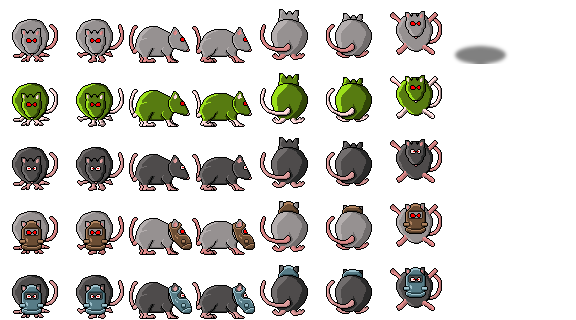
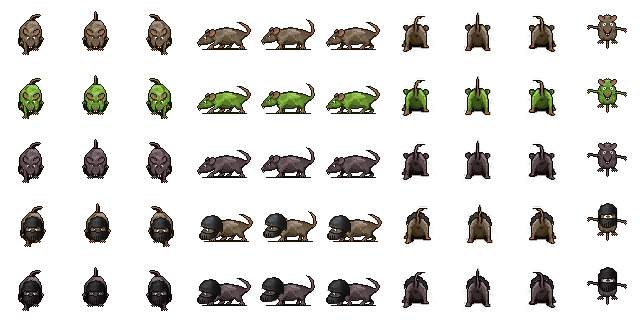
ADD New art for rats

diff --git a/src/BlackRatEntity.cpp b/src/BlackRatEntity.cpp
@@ -13,12 +13,12 @@ BlackRatEntity::BlackRatEntity(float x, float y, ratBlackTypeEnum ratType)
   targetTile(0, 0)
 {
   this->ratType = ratType;
-  imagesProLine = 8;
+  imagesProLine = 10;
 
   if (ratType == RatBlackTypeNormal)
   {
-    frame = 16;
-    dyingFrame = 22;
+    frame = 21;
+    dyingFrame = 29;
     deathFrame = FRAME_CORPSE_BLACK_RAT;
     enemyType = EnemyTypeRatBlack;
     hp = BLACK_RAT_HP;
@@ -26,8 +26,8 @@ BlackRatEntity::BlackRatEntity(float x, float y, ratBlackTypeEnum ratType)
   }
   else //(ratType == RatBlackTypeHelmet)
   {
-    frame = 32;
-    dyingFrame = 38;
+    frame = 41;
+    dyingFrame = 49;
     deathFrame = FRAME_CORPSE_BLACK_RAT_HELMET;
     enemyType = EnemyTypeRatBlackHelmet;
     hp = BLACK_RAT_HP_HELMET;
@@ -38,10 +38,11 @@ BlackRatEntity::BlackRatEntity(float x, float y, ratBlackTypeEnum ratType)
 
   type = ENTITY_ENNEMY;
   bloodColor = BloodRed;
-  shadowFrame = 7;
+  shadowFrame = -1;
   agonizingSound = SOUND_RAT_DYING;
 
   currentDirection = 0;
+  sprite.setOrigin(32.0f, 38.0f);
 
   findNextGoal();
 }
@@ -56,24 +57,25 @@ void BlackRatEntity::animate(float delay)
     else if (currentDirection == 2 && y > (targetTile.y * TILE_HEIGHT + TILE_HEIGHT / 2 + OFFSET_Y - 5) ) findNextGoal();
     else if (currentDirection == 8 && y < (targetTile.y * TILE_HEIGHT + TILE_HEIGHT / 2 + OFFSET_Y - 5) ) findNextGoal();
 
-    frame = 16 + ((int)(age * 5.0f)) % 2;
-    if (facingDirection == 4 || facingDirection == 6) frame += 2;
-    isMirroring = (facingDirection == 4 );
-    if (facingDirection == 8) frame += 4;
-
-    if (ratType == RatBlackTypeHelmet)
-      frame += 16;
+    frame = ((int)(age * 5.0f)) % 4;
+    if (frame == 3) frame = 1;
+    if (facingDirection == 4 || facingDirection == 6) frame += 3;
+    isMirroring = (facingDirection == 6 );
+    if (facingDirection == 8) frame += 6;
+    if (ratType == RatBlackTypeHelmet) frame += 40;
+    else frame += 20;
   }
 
   EnemyEntity::animate(delay);
+  z = y + 17;
 }
 
 void BlackRatEntity::calculateBB()
 {
-    boundingBox.left = (int)x - width / 2 + RAT_BB_LEFT;
-    boundingBox.width = width - RAT_BB_WIDTH_DIFF;
-    boundingBox.top = (int)y - height / 2 + RAT_BB_TOP;
-    boundingBox.height =  height - RAT_BB_HEIGHT_DIFF;
+  boundingBox.left = (int)x - width / 2 + RAT_BB_LEFT;
+  boundingBox.width = width - RAT_BB_WIDTH_DIFF;
+  boundingBox.top = (int)y - 13;
+  boundingBox.height =  31;
 }
 
 void BlackRatEntity::collideMapRight()

diff --git a/src/RatEntity.cpp b/src/RatEntity.cpp
@@ -11,13 +11,13 @@ RatEntity::RatEntity(float x, float y, ratTypeEnum ratType, bool invocated)
   : EnemyEntity (ImageManager::getInstance().getImage(IMAGE_RAT), x, y)
 {
   this->ratType = ratType;
-  imagesProLine = 8;
+  imagesProLine = 10;
   this->invocated = invocated;
 
   if (ratType == RatTypeNormal)
   {
-    frame = 0;
-    dyingFrame = 6;
+    frame = 1;
+    dyingFrame = 9;
     deathFrame = FRAME_CORPSE_RAT;
     if (invocated) enemyType = EnemyTypeRat_invocated;
     else enemyType = EnemyTypeRat;
@@ -26,8 +26,8 @@ RatEntity::RatEntity(float x, float y, ratTypeEnum ratType, bool invocated)
   }
   else //(ratType == RatTypeHelmet)
   {
-    frame = 24;
-    dyingFrame = 30;
+    frame = 31;
+    dyingFrame = 39;
     deathFrame = FRAME_CORPSE_RAT_HELMET;
     if (invocated) enemyType = EnemyTypeRatHelmet_invocated;
     else enemyType = EnemyTypeRatHelmet;
@@ -41,31 +41,34 @@ RatEntity::RatEntity(float x, float y, ratTypeEnum ratType, bool invocated)
 
   type = ENTITY_ENNEMY;
   bloodColor = BloodRed;
-  shadowFrame = 7;
+  shadowFrame = -1;
 
   agonizingSound = SOUND_RAT_DYING;
+  sprite.setOrigin(32.0f, 38.0f);
 }
 
 void RatEntity::animate(float delay)
 {
   if (age > 0.0f && !isAgonising)
   {
-    frame = ((int)(age * 5.0f)) % 2;
-    if (facingDirection == 4 || facingDirection == 6) frame += 2;
-    isMirroring = (facingDirection == 4 );
-    if (facingDirection == 8) frame += 4;
-    if (ratType == RatTypeHelmet) frame += 24;
+    frame = ((int)(age * 5.0f)) % 4;
+    if (frame == 3) frame = 1;
+    if (facingDirection == 4 || facingDirection == 6) frame += 3;
+    isMirroring = (facingDirection == 6 );
+    if (facingDirection == 8) frame += 6;
+    if (ratType == RatTypeHelmet) frame += 30;
   }
 
   EnemyEntity::animate(delay);
+  z = y + 17;
 }
 
 void RatEntity::calculateBB()
 {
   boundingBox.left = (int)x - width / 2 + RAT_BB_LEFT;
   boundingBox.width = width - RAT_BB_WIDTH_DIFF;
-  boundingBox.top = (int)y - height / 2 + RAT_BB_TOP;
-  boundingBox.height =  height - RAT_BB_HEIGHT_DIFF;
+  boundingBox.top = (int)y - 13;
+  boundingBox.height =  31;
 }
 
 void RatEntity::collideMapRight()

diff --git a/src/GreenRatEntity.cpp b/src/GreenRatEntity.cpp
@@ -10,7 +10,7 @@
 GreenRatEntity::GreenRatEntity(float x, float y)
   : EnemyEntity (ImageManager::getInstance().getImage(IMAGE_RAT), x, y)
 {
-  imagesProLine = 8;
+  imagesProLine = 10;
   creatureSpeed = GREEN_RAT_SPEED;
   velocity = Vector2D(creatureSpeed);
   computeFacingDirection();
@@ -20,14 +20,15 @@ GreenRatEntity::GreenRatEntity(float x, float y)
   type = ENTITY_ENNEMY_INVOCATED;
   enemyType = EnemyTypeRatGreen;
   bloodColor = BloodRed;
-  shadowFrame = 7;
-  dyingFrame = 14;
+  shadowFrame = -1;
+  dyingFrame = 19;
   deathFrame = FRAME_CORPSE_GREEN_RAT;
   agonizingSound = SOUND_RAT_DYING;
 
   timer = (rand() % 50) / 10.0f;
   age = -GREEN_RAT_FADE;
-  frame = 8;
+  frame = 11;
+  sprite.setOrigin(32.0f, 38.0f);
 }
 
 void GreenRatEntity::animate(float delay)
@@ -51,6 +52,13 @@ void GreenRatEntity::animate(float delay)
     if (facingDirection == 4 || facingDirection == 6) frame += 2;
     isMirroring = (facingDirection == 4 );
     if (facingDirection == 8) frame += 4;
+
+    frame = ((int)(age * 5.0f)) % 4;
+    if (frame == 3) frame = 1;
+    if (facingDirection == 4 || facingDirection == 6) frame += 3;
+    isMirroring = (facingDirection == 6 );
+    if (facingDirection == 8) frame += 6;
+    frame += 10;
   }
   else if (!isAgonising)
   {
@@ -68,14 +76,15 @@ void GreenRatEntity::animate(float delay)
   }
 
   EnemyEntity::animate(delay);
+  z = y + 17;
 }
 
 void GreenRatEntity::calculateBB()
 {
-    boundingBox.left = (int)x - width / 2 + RAT_BB_LEFT;
-    boundingBox.width = width - RAT_BB_WIDTH_DIFF;
-    boundingBox.top = (int)y - height / 2 + RAT_BB_TOP;
-    boundingBox.height =  height - RAT_BB_HEIGHT_DIFF;
+  boundingBox.left = (int)x - width / 2 + RAT_BB_LEFT;
+  boundingBox.width = width - RAT_BB_WIDTH_DIFF;
+  boundingBox.top = (int)y - 13;
+  boundingBox.height =  31;
 }
 
 void GreenRatEntity::collideMapRight()
